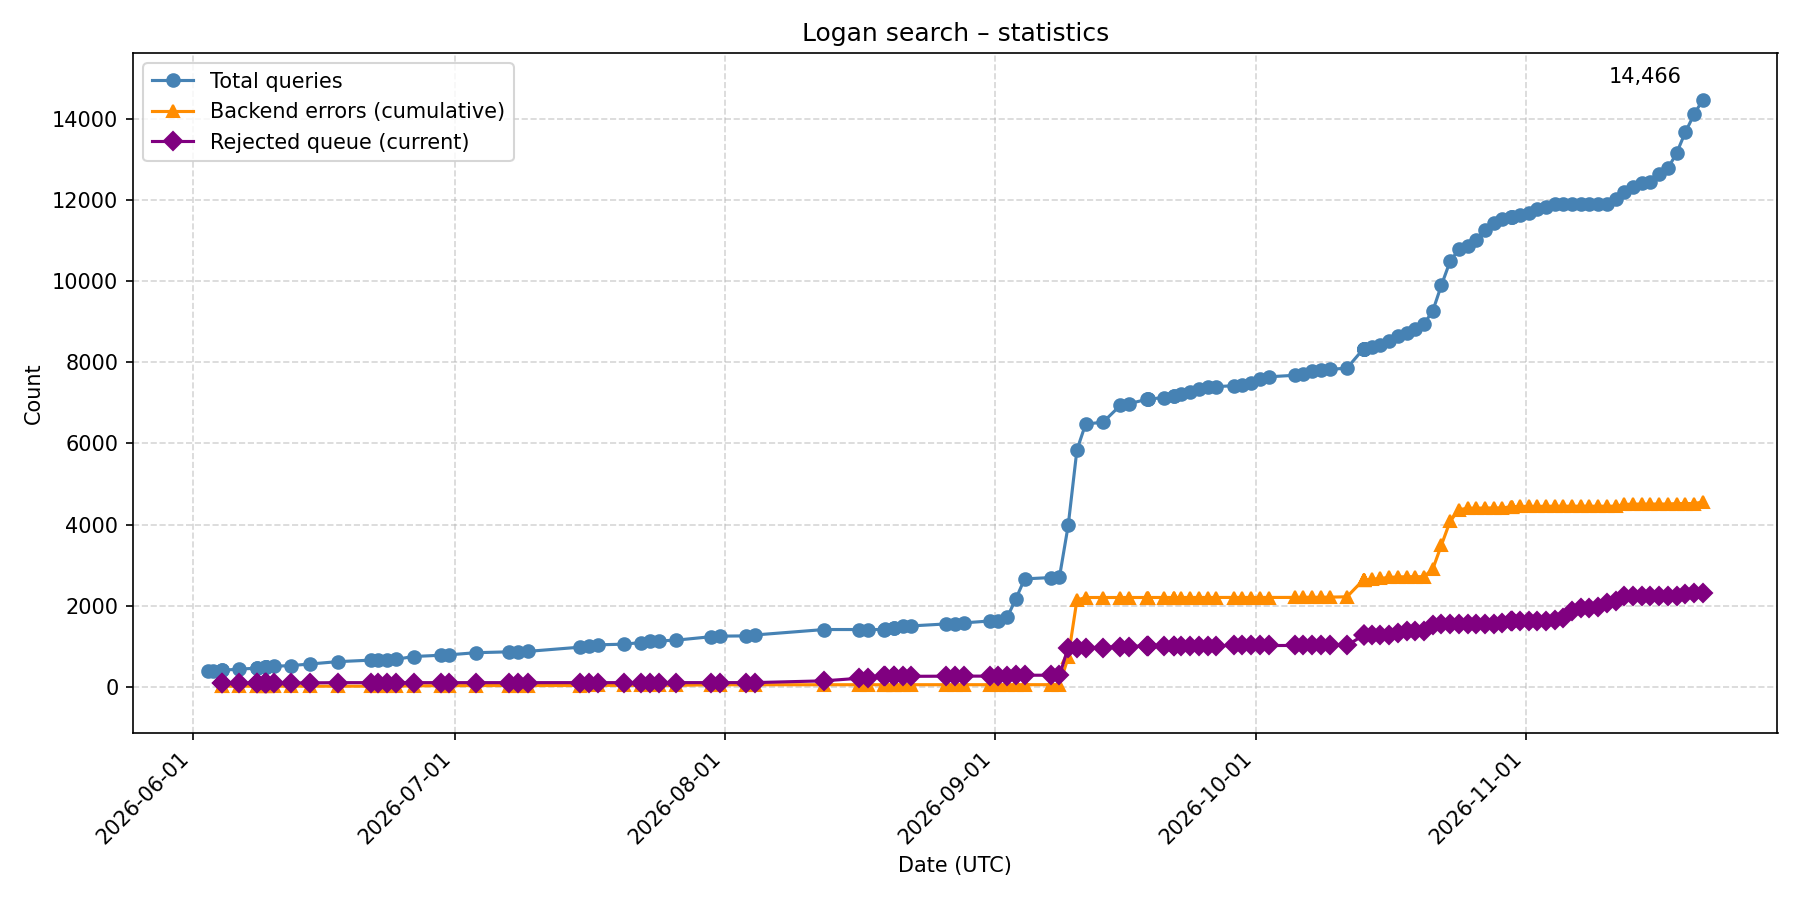
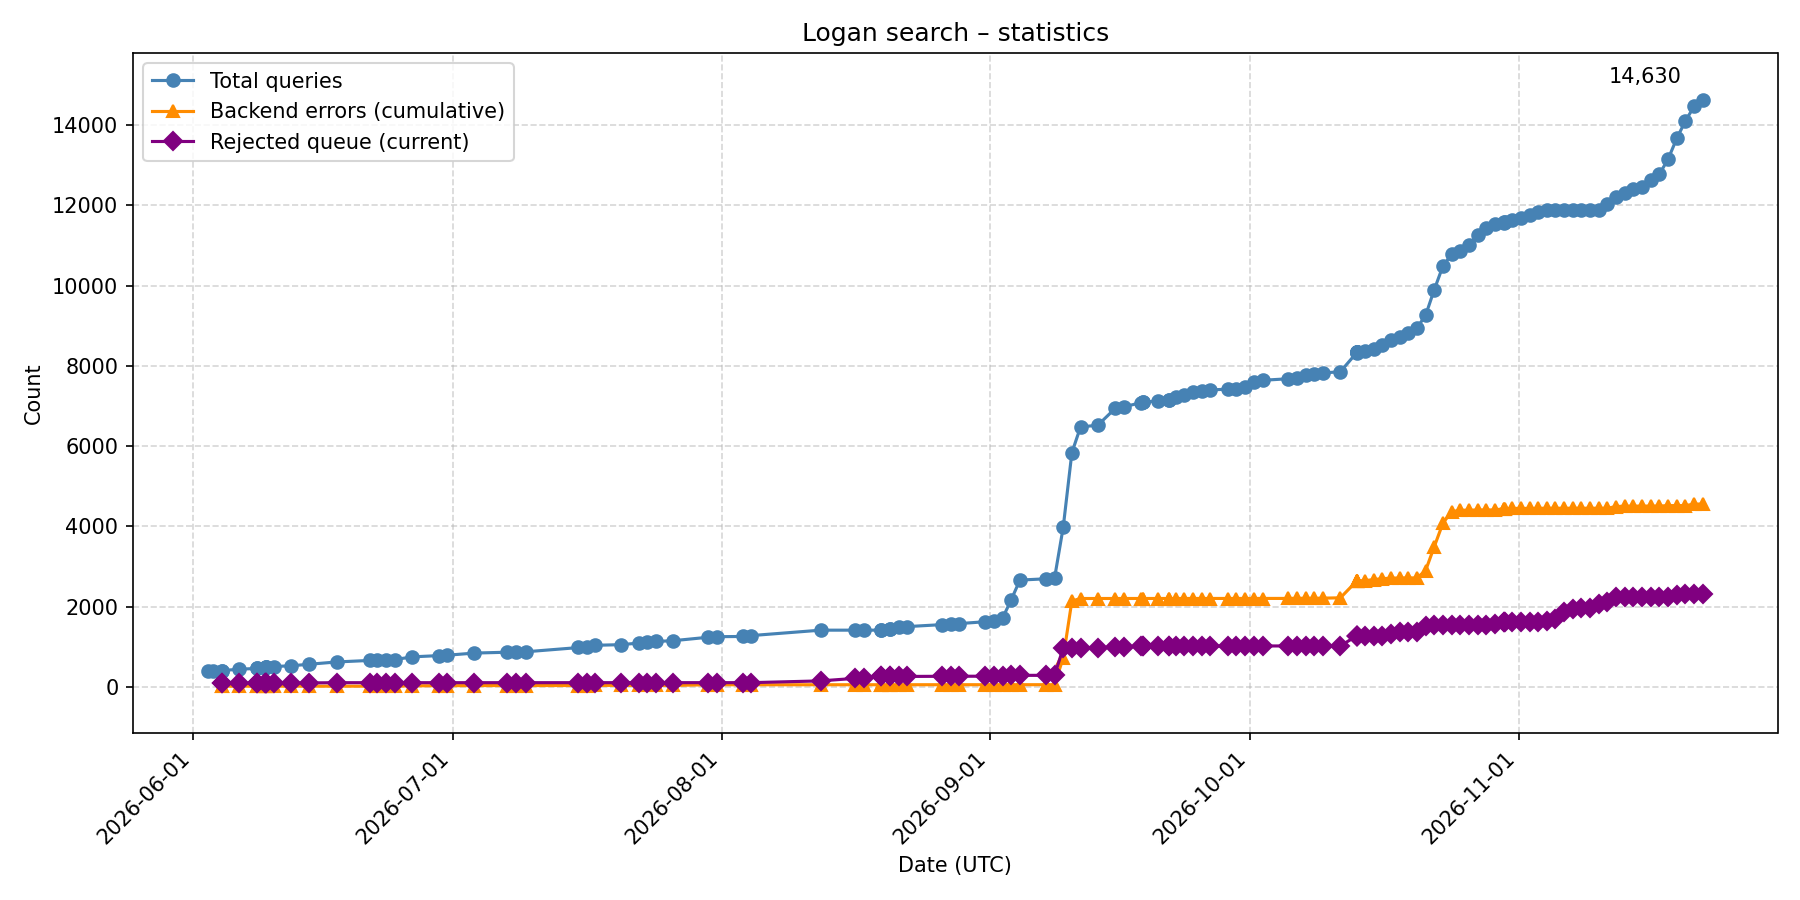
Update statistics 2026-11-22

diff --git a/README.md b/README.md
@@ -5,8 +5,8 @@ Usage statistics of [Logan Search](https://logan-search.org), updated once a day
 ## Yesterday
 
 <!-- daily-queries:start -->
-**Queries on 2026-11-20 (UTC): 268** on the backend (BRC Analytics history).
-The logan-search.org counter increased by 359 between 2026-11-20 06:00 and 2026-11-21 06:00 UTC.
+**Queries on 2026-11-21 (UTC): 195** on the backend (BRC Analytics history).
+The logan-search.org counter increased by 164 between 2026-11-21 06:00 and 2026-11-22 06:00 UTC.
 <!-- daily-queries:end -->
 
 ## Queries made on logan-search.org
